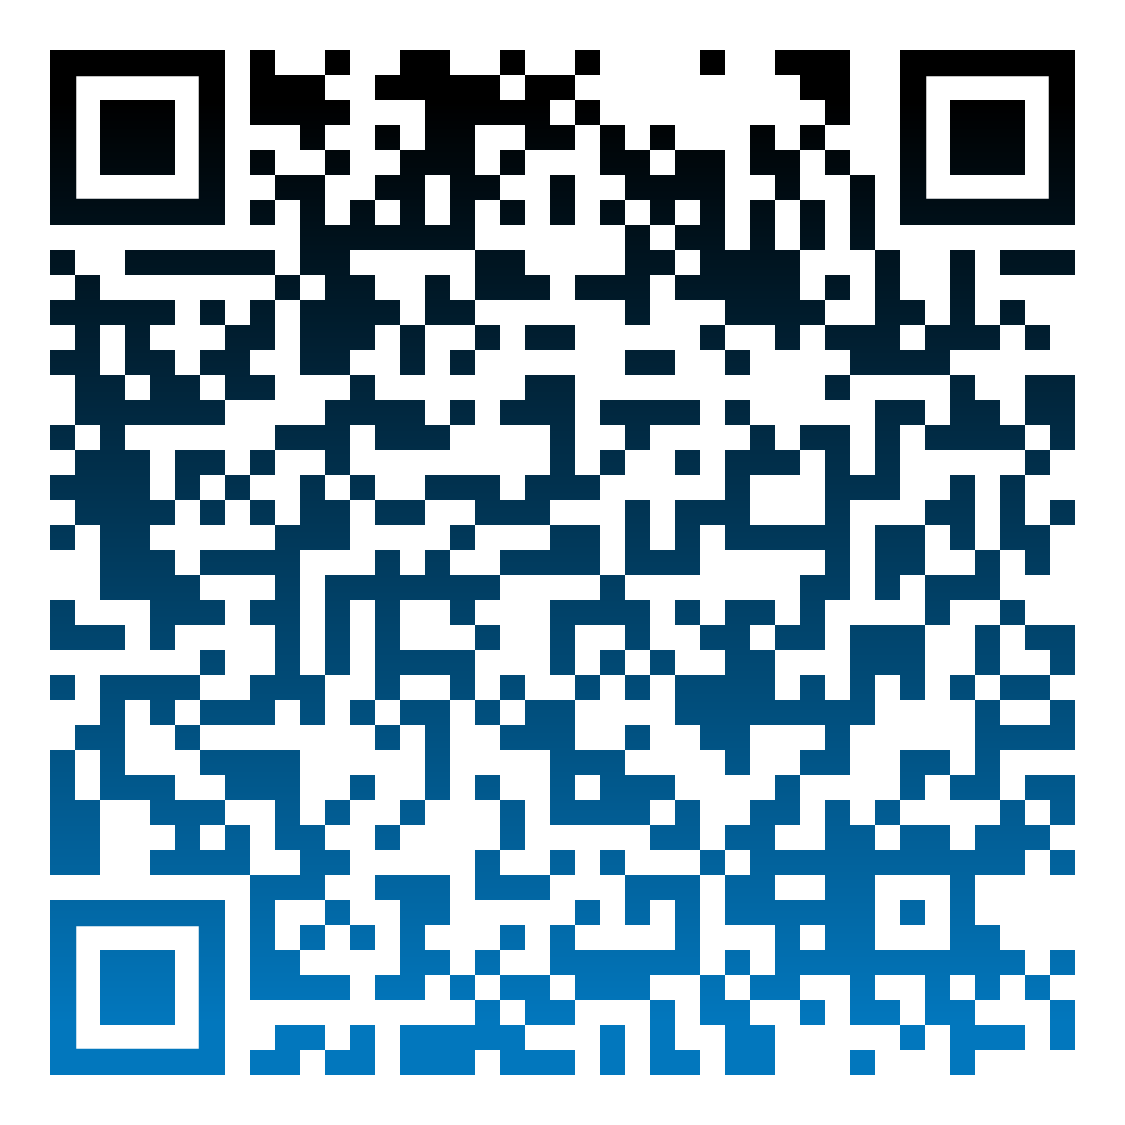
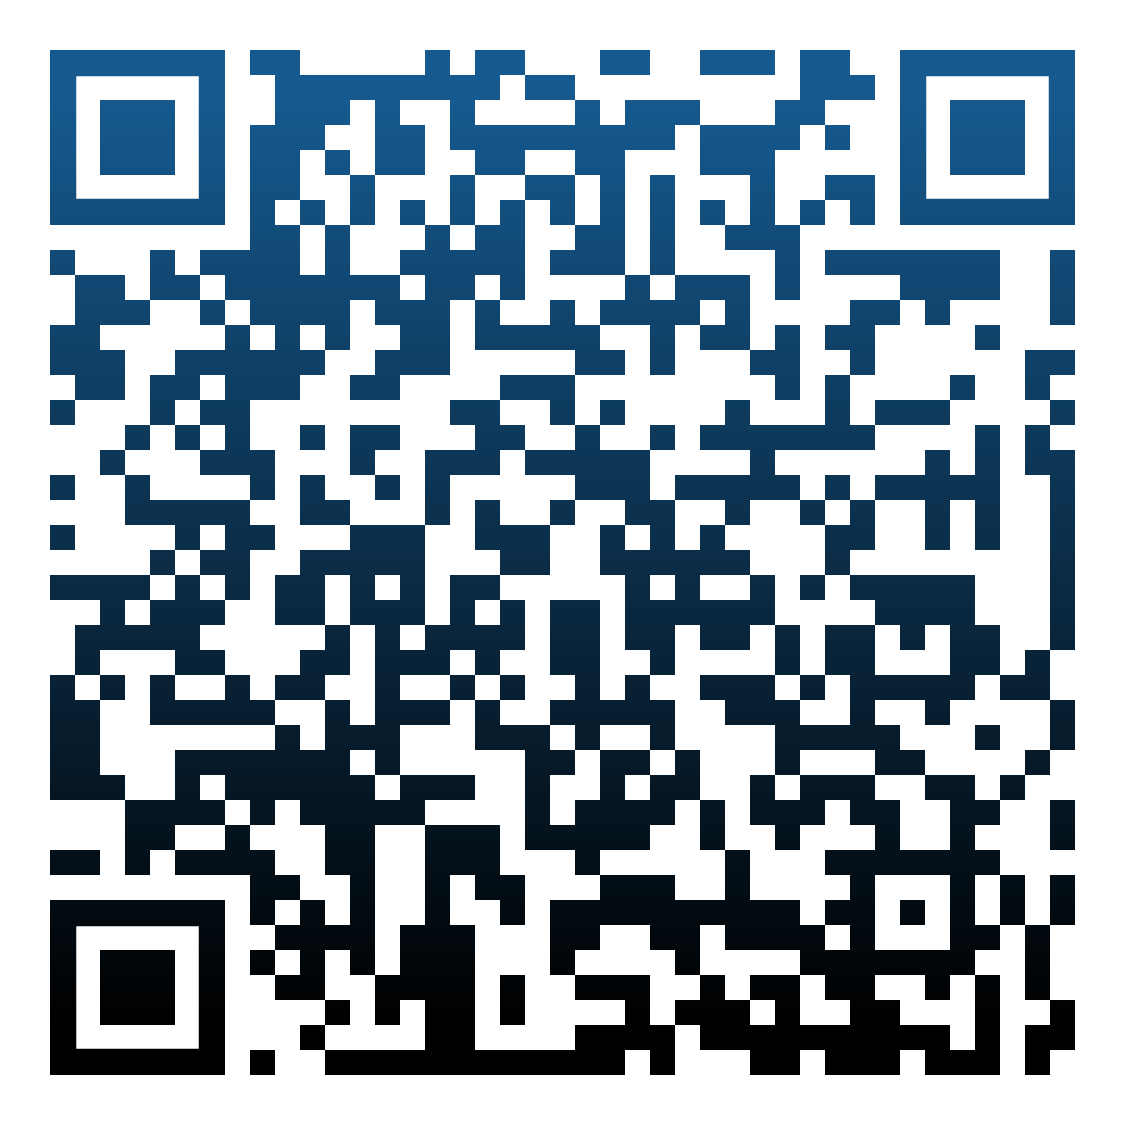
doc: qr update

diff --git a/index.html b/index.html
@@ -224,7 +224,7 @@
 								<img src="./view/images/qr/qr-resume-with-passport-oct-21-2023.png" alt="QR Code">
 								<p><span data-i18n="qr_text_1">Scan the QR code to view my resume</span></p>
 							</div>
-							<a href="https://drive.google.com/file/d/1-kys3WUmtHmNKoML_OvuP9JJ15-uqDU5/view?usp=share_link" download>
+							<a href="https://drive.google.com/file/d/160jqaDAcxTufSiPmxqAQNYvtDa87XKTP/view?usp=share_link" download>
 								<span data-i18n="qr_text_2">Download Resume</span>
 							</a>
 
